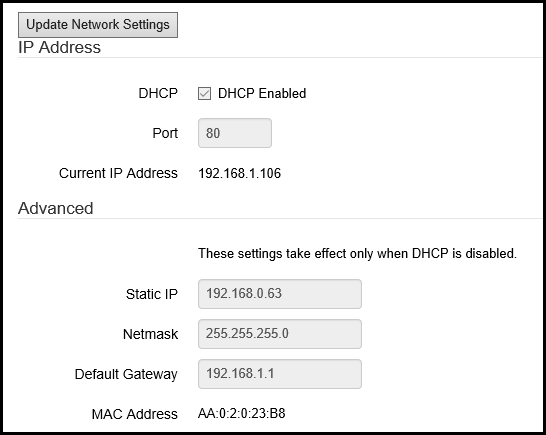
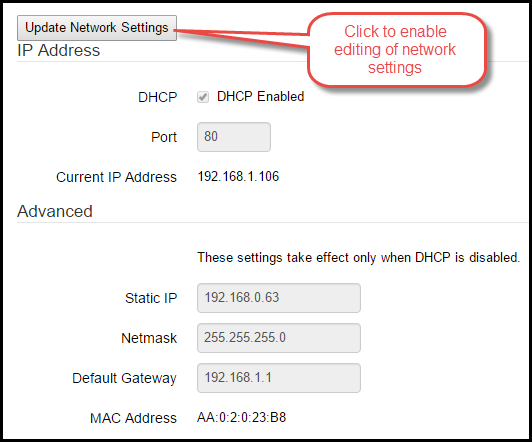
Expanded Networking section
Added another graphic and more text to the Networking section.

diff --git a/docs/settings.md b/docs/settings.md
@@ -73,9 +73,15 @@ LED display devices can be added to the BCS by connecting them to the **EXP0** a
 ## Networking
 In order to access the BCS over a network, the BCS must have a valid IP address. The easiest way to accomplish this is to use DHCP to automatically assign an IP address. DHCP is enabled by default, so if you have a router or DHCP server on your network, the BCS will be assigned an IP address. To find the IP address that was assigned to your BCS, you can either look on your router or DHCP server to see which IP address was assigned to the BCS *MAC Address*. You can also use the [BCS Finder](finder.md).
 
-To manually assign an IP address to your BCS, uncheck the *DHCP Enabled* box, enter you IP address information in the **Advanced** section, and click on the **Update Network Settings** button.
+Before you can make changes to your network settings, you must first click on the **Update Network Settings** button. This will enable the ability to edit the network settings. After you make your changes, click on the **Reset BCS** button for the changes to take effect.
 
 ![networking](/img/settings/network_settings.png)
+
+If you are using port forwarding, you may want to use a non-standard TCP port on the BCS. To change the port assignment, use the up and down arrows in the **Port** box.
+
+To manually assign an IP address to your BCS, uncheck the *DHCP Enabled* box, enter you IP address information in the **Advanced** section, and click on the **Reset BCS** button.
+
+![networking2](/img/settings/network_settings2.png)
 
 ## Firmware Upgrade
 To upgrade your BCS to the latest firmware, you must use TFTP which is a simple program used to transfer files on the local network. There are several free TFTP servers available on the Internet. Download the firmware file to your computer and follow the instructions for setting up your chose TFTP server. Enter the IP address of your TFTP server in the IP Address box and click the **Upgrade** button. Once the download is complete, the BCS will take a few minutes to install the upgrade and reboot. Be sure to back-up your configuration before you upgrade.
